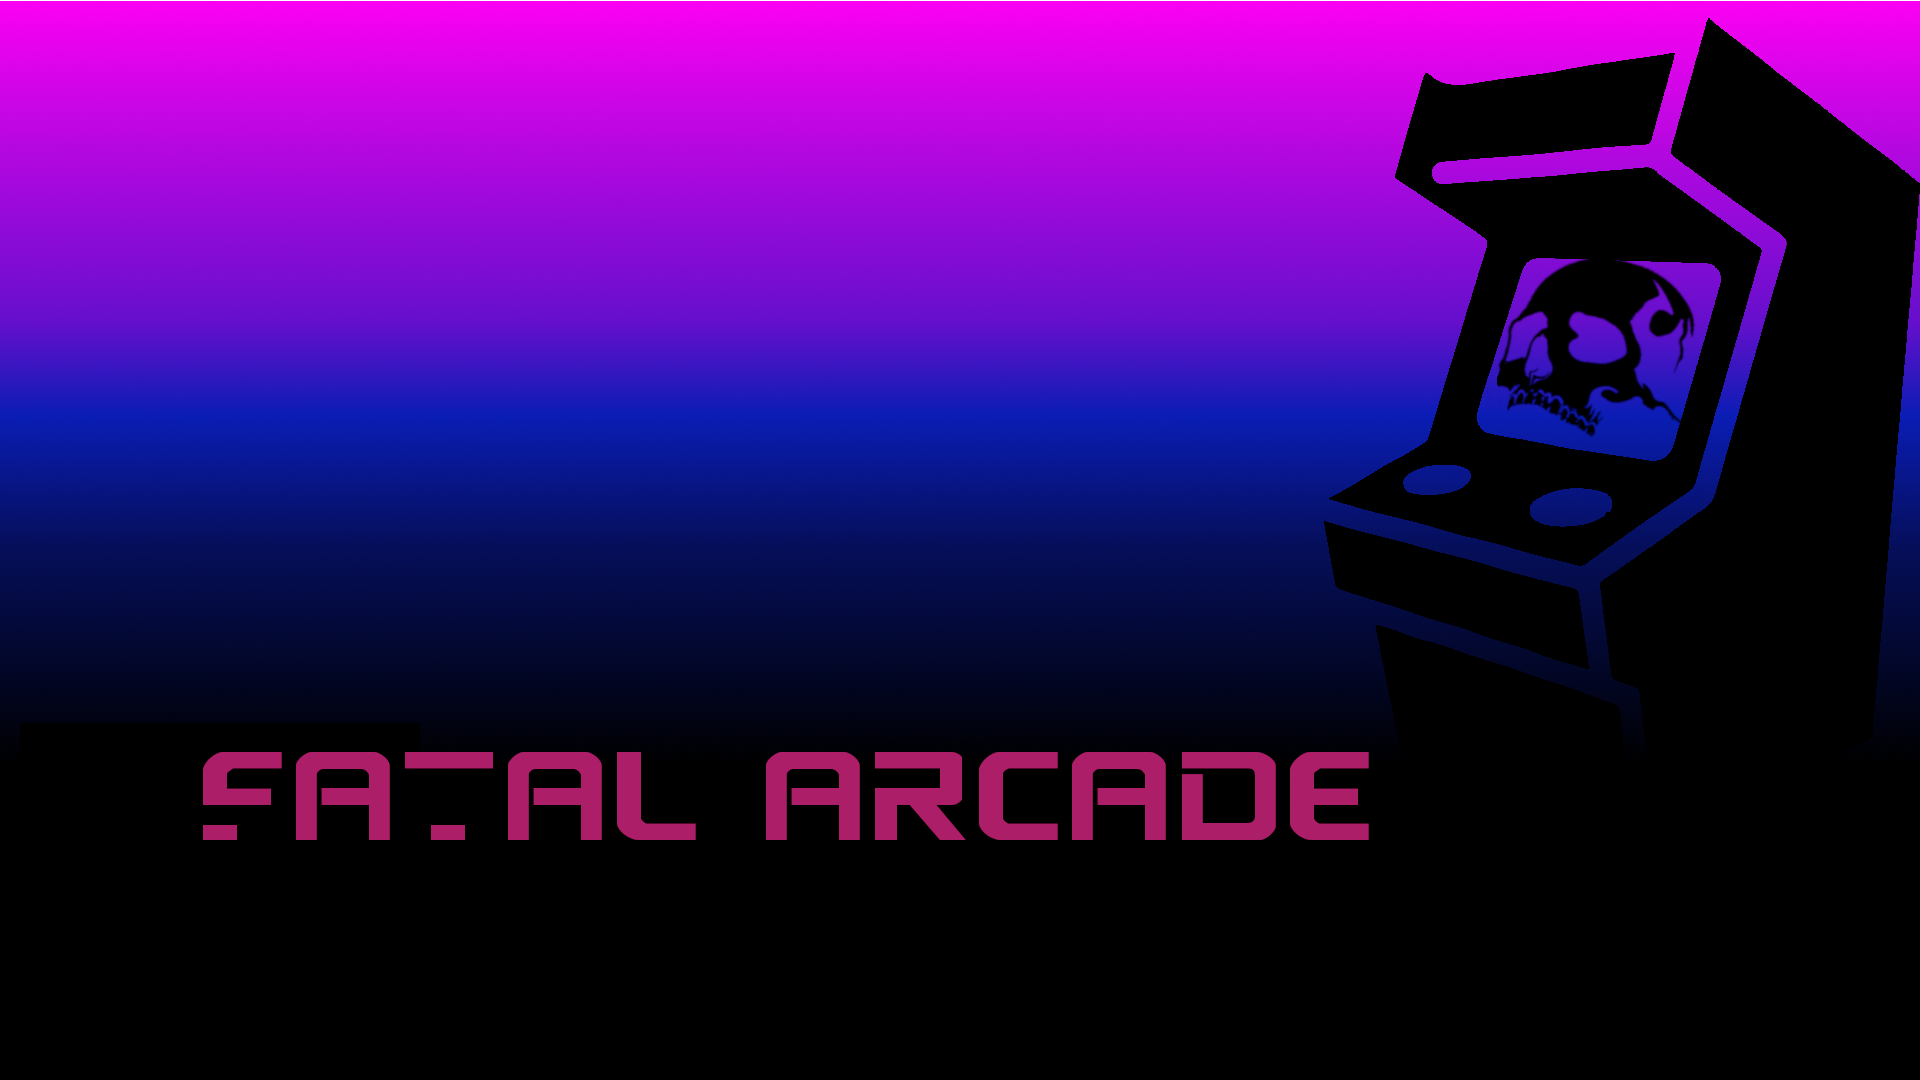
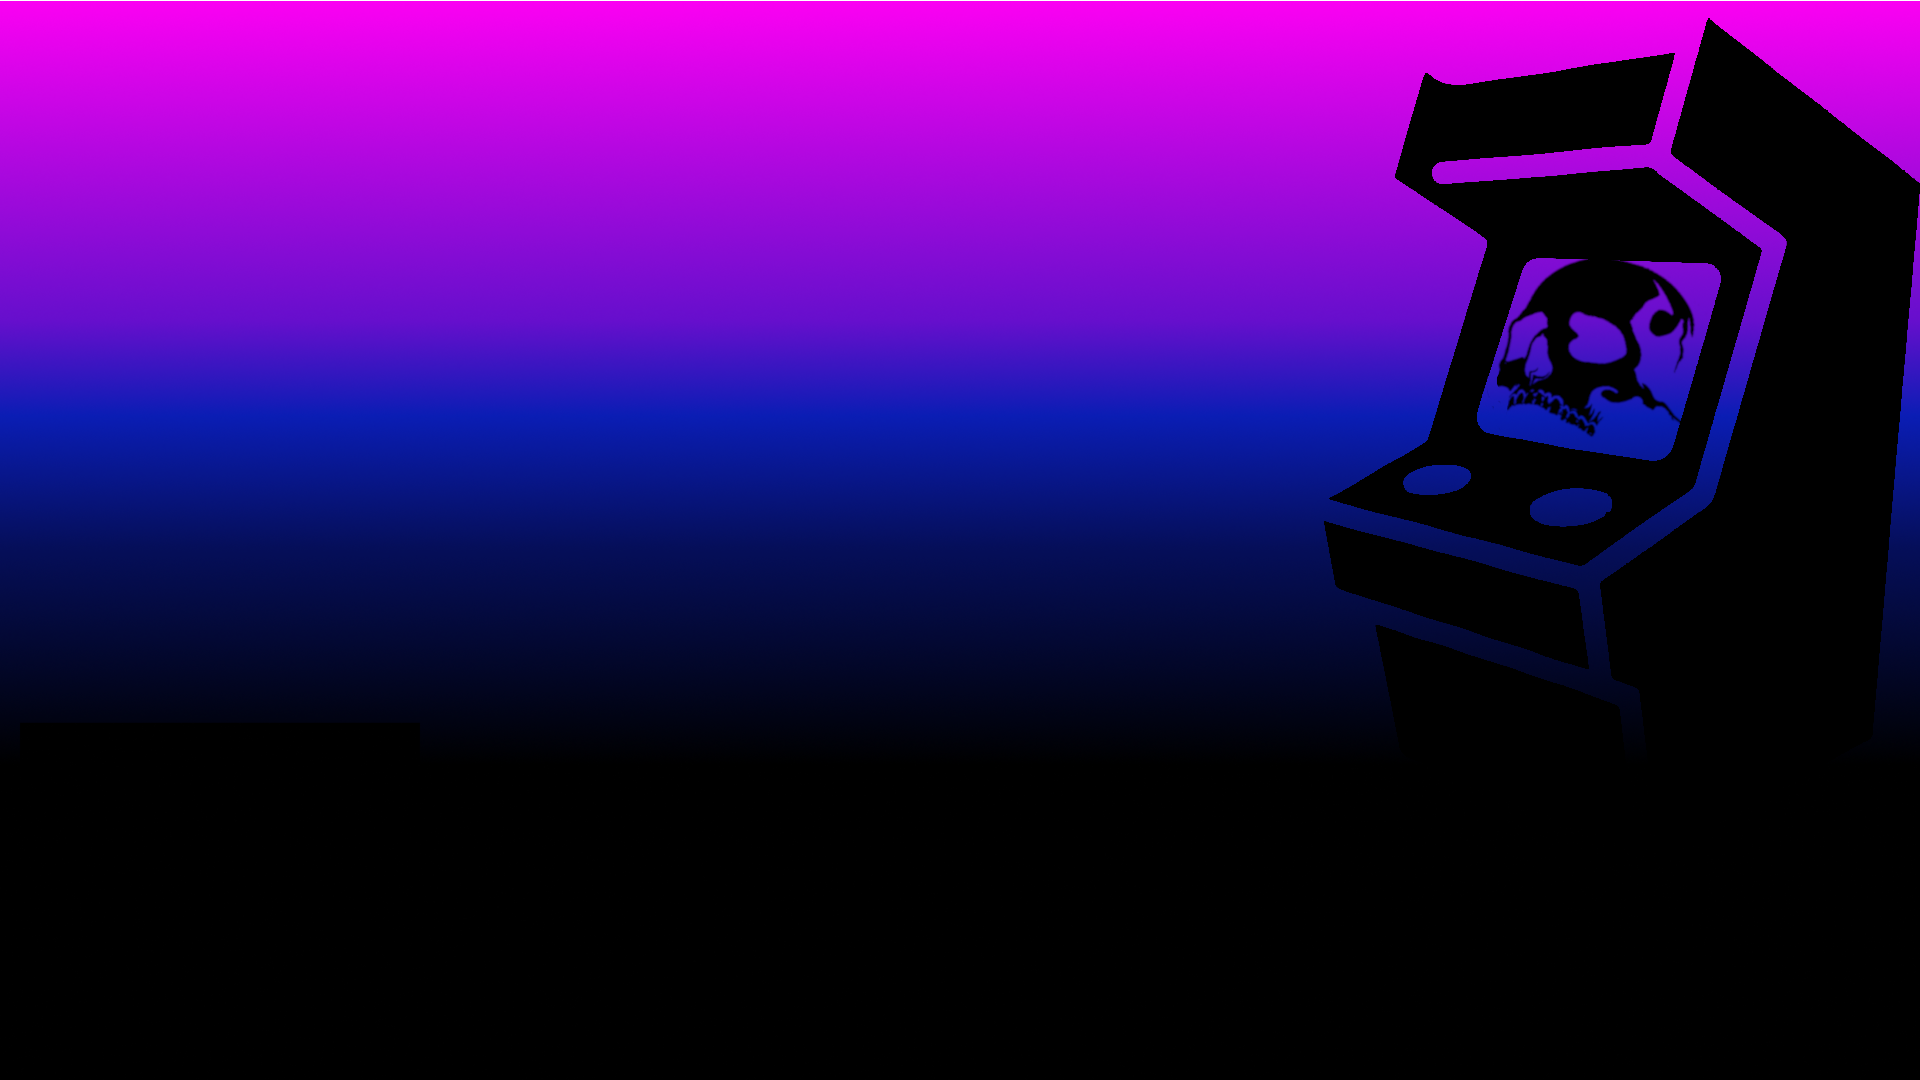
updates

Changed region(s): [[0.0938, 0.6722, 0.7188, 0.7944]]

diff --git a/css/main.css b/css/main.css
@@ -5,39 +5,58 @@
   font-style: normal;
 }
 
-
 :root {
 	--color-background: rgba( 10,  10,  10, 1.0);
 	--color-side-panel: rgba( 30,  30,  40, 1.0);
+	--color-top-banner: rgba(0, 0, 0, 0.5);
 	--color-font-major: rgba(200, 200, 200, 1.0);
 }
-
 
 body {
 	font-family: Arial, sans-serif;
 	color: var(--color-font-major);
 	background-color:var(--color-background);
+	background-image:url('../img/fatal-arcade-wallpaper.png');
 	display: flex;
 	margin: 0;
 }
 
 #mygamertag {
 	font-family: PsyonicVII, sans-serif;
-	font-size: 35px;
-	margin-top: 20px;
+	font-size: 64px;
+	margin-top: 12px;
+	margin-left: 32px;
+	margin-right: auto;
+	float: left;
 }
 
 #content-banner {
-	background-color: var(--color-side-panel);
-	display:inline-flex;
+	background-color: var(--color-top-banner);
+	justify-content: space-between;
+	display: flex;
 	height: 100px;
 	width:100%
+}
+
+#toggle-btn {
+	background: none;
+	border: none;
+	margin-top: 10px;
+	top:20px;
+	left:20px;
+	width:50px;
+	height:50px;
+	z-index:1000;
+	float: left;
+	font-size:35px;
+	color: var(--font-color-major);
+	cursor:pointer;	
 }
 
 #sidebar {
 	background: var(--color-side-panel);
 	height: 100vh;
-	width: 400px;
+	width: 200px;
 	box-sizing: border-box;
 	transition: width 0.3s ease;
 	overflow: hidden;
@@ -63,24 +82,6 @@ body {
 #sidebar ul li a {
 	color: var(--font-color-major);
 	text-decoration:none;
-}
-
-#toggle-btn {
-	background: none;
-	border: none;
-	margin-top: 10px;
-	top:20px;
-	left:20px;
-	width:50px;
-	height:50px;
-	z-index:1000;
-	font-size:35px;
-	color: var(--font-color-major);
-	cursor:pointer;
-	/*
-	position: fixed;
-	*/
-	
 }
 
 /* Main content */

diff --git a/index.html b/index.html
@@ -17,9 +17,9 @@
 		
 		<!-- sidebar -->
 		<div id="sidebar" class="collapsed">
-			<h1 id="mygamertag">FATAL ARCADE</h1>	
+			<h1>Menu</h1>	
 			<ul>
-				<li><a href="#">GuineaBytes Studio</a></li>
+				<li><a href="#">Guinea Bytes Studio</a></li>
 				<li><a href="https://fatal-arcade.github.io/minecraft-bedrock-edition">Minecraft (Bedrock Edition)</a></li>
 				<li><a href="https://fatal-arcade.github.io/the-elder-scrolls-online">The Elder Scrolls Online</a></li>
 				<li><a href="#">_</a></li>
